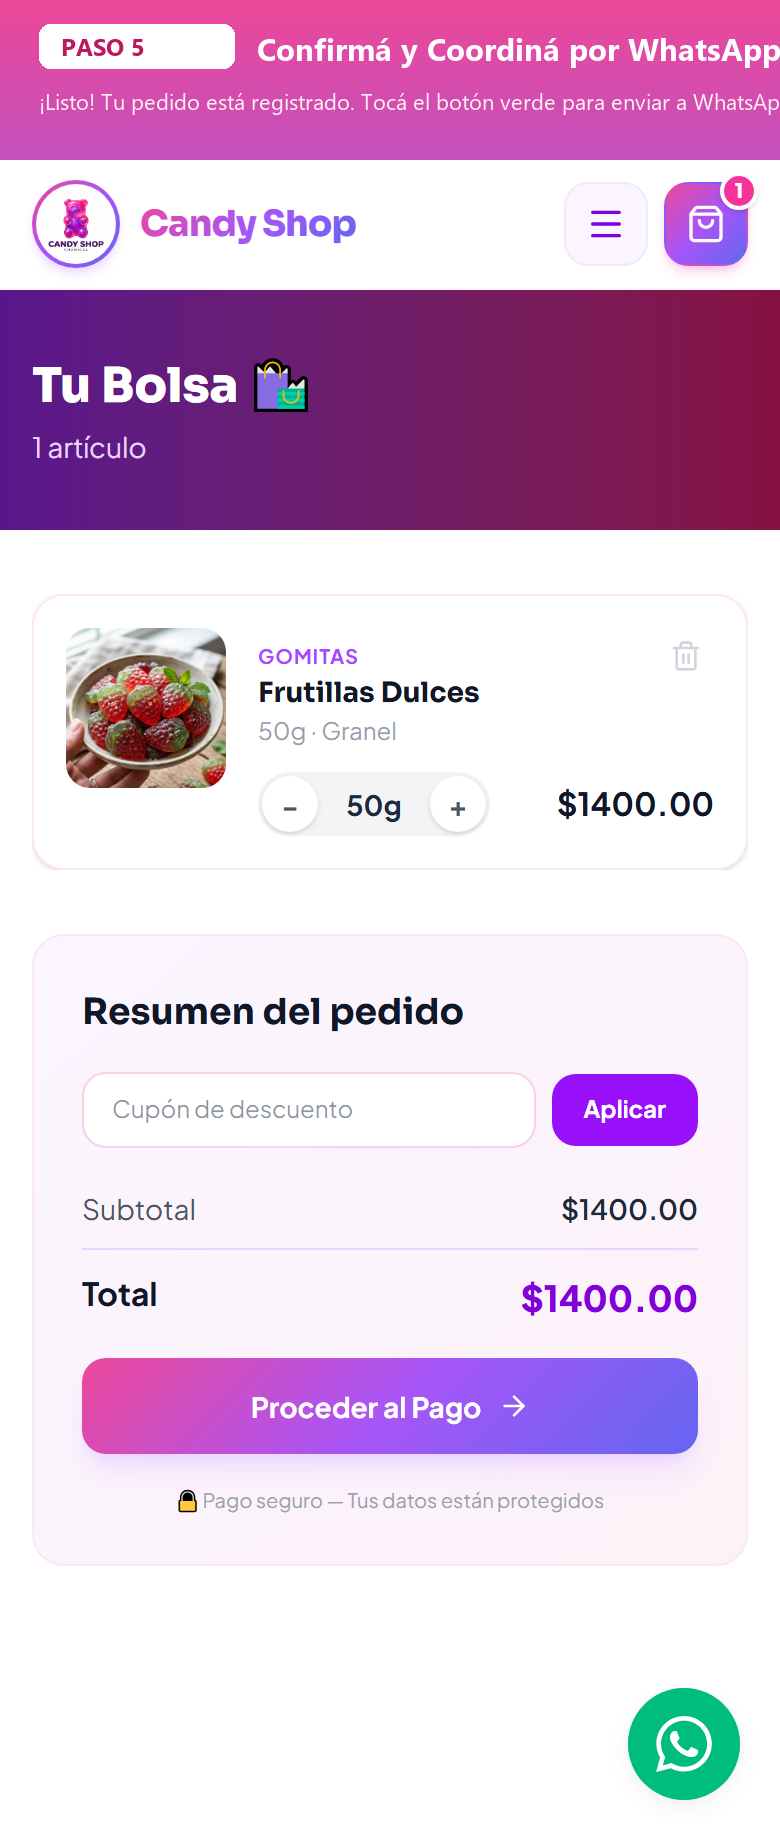
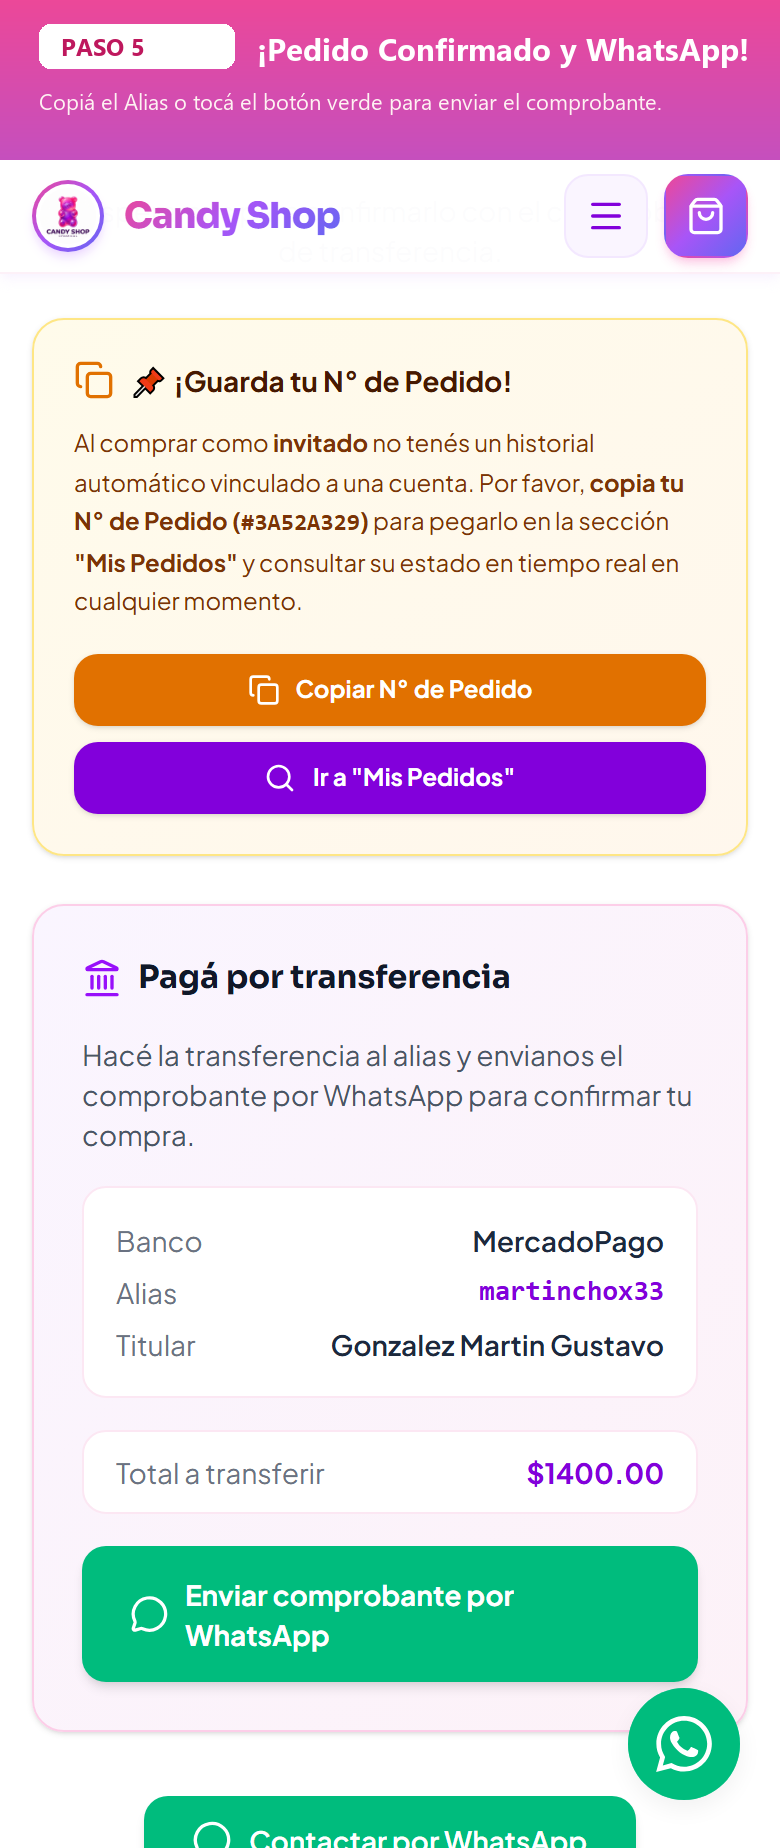
fix(tutorial): corregir y perfeccionar capturas y contenido de los pasos 4 y 5 en tutorial celular

diff --git a/scripts/generate_mobile_tutorial.py b/scripts/generate_mobile_tutorial.py
@@ -33,14 +33,10 @@ def add_banner_annotation(
     img = Image.open(image_path).convert("RGBA")
     w, h = img.size
 
-    # Dimensiones del banner explicativo superior
     banner_height = int(150 * (w / 780))
     banner_height = max(160, min(banner_height, 220))
 
-    # Crear nueva imagen con espacio para el banner
     canvas = Image.new("RGBA", (w, h + banner_height), (248, 250, 252, 255))
-    
-    # Dibujar el banner con degradado candy (Rosa fucsia a Violeta púrpura)
     draw = ImageDraw.Draw(canvas)
     
     for y in range(banner_height):
@@ -50,7 +46,6 @@ def add_banner_annotation(
         b = int(153 * (1 - ratio * 0.4) + 246 * (ratio * 0.4))
         draw.line([(0, y), (w, y)], fill=(r, g, b, 255))
 
-    # Cargar fuentes
     try:
         font_badge = ImageFont.truetype("C:/Windows/Fonts/segoeuib.ttf", int(w * 0.032))
         font_title = ImageFont.truetype("C:/Windows/Fonts/segoeuib.ttf", int(w * 0.040))
@@ -60,7 +55,6 @@ def add_banner_annotation(
         font_title = ImageFont.load_default()
         font_desc = ImageFont.load_default()
 
-    # Pastilla de Paso (Badge blanco)
     badge_text = f" PASO {step_number} "
     badge_x = int(w * 0.05)
     badge_y = int(banner_height * 0.15)
@@ -72,20 +66,16 @@ def add_banner_annotation(
     )
     draw.text((badge_x + int(w * 0.02), badge_y + int(banner_height * 0.04)), badge_text, fill=(190, 24, 93, 255), font=font_badge)
 
-    # Título principal
     title_x = badge_x + int(w * 0.28)
     title_y = badge_y + int(banner_height * 0.02)
     draw.text((title_x, title_y), title, fill=(255, 255, 255, 255), font=font_title)
 
-    # Descripción / Instrucción
     desc_x = int(w * 0.05)
     desc_y = int(banner_height * 0.54)
     draw.text((desc_x, desc_y), instruction, fill=(254, 242, 242, 255), font=font_desc)
 
-    # Pegar captura del celular debajo del banner
     canvas.paste(img, (0, banner_height), img)
 
-    # Si hay recuadro de resaltado (highlight)
     if highlight_box:
         x1, y1, x2, y2 = highlight_box
         y1_adj = y1 + banner_height
@@ -97,7 +87,6 @@ def add_banner_annotation(
                 outline=(236, 72, 153, 255)
             )
 
-    # Guardar imagen final optimizada
     canvas.convert("RGB").save(output_path, "PNG", optimize=True)
     print(f" -> Editada y guardada: {output_path.name}")
 
@@ -107,7 +96,6 @@ async def capture_mobile_flow():
         is_headless = os.getenv("HEADLESS", "true").lower() != "false"
         browser = await p.chromium.launch(headless=is_headless, slow_mo=350)
         
-        # Emular Celular moderno (iPhone 14 / Pixel 7: 390x844 con device_scale_factor=2 para ultra nitidez)
         context = await browser.new_context(
             viewport={"width": 390, "height": 844},
             device_scale_factor=2,
@@ -121,7 +109,7 @@ async def capture_mobile_flow():
         print(f"[*] Navegando en vista celular a: {TARGET_URL}")
 
         # -------------------------------------------------------------
-        # PASO 1: Ingreso a la tienda y vista del catálogo en celular
+        # PASO 1: Ingreso a la tienda y catálogo
         # -------------------------------------------------------------
         try:
             await page.goto(f"{TARGET_URL}#catalogo", wait_until="networkidle", timeout=30000)
@@ -175,7 +163,7 @@ async def capture_mobile_flow():
             instruction="Seleccioná los gramos o sabores y tocá 'Añadir a la bolsa'."
         )
 
-        # Añadir al carrito usando el botón #addToCartDetail
+        # Añadir al carrito
         add_btn = page.locator("#addToCartDetail").first
         if await add_btn.count() > 0:
             await add_btn.click()
@@ -202,30 +190,45 @@ async def capture_mobile_flow():
         )
 
         # -------------------------------------------------------------
-        # PASO 4: Formulario de Checkout / Envío y Forma de Pago
+        # PASO 4: Formulario de Envío y Forma de Pago (Paso 'shipping')
         # -------------------------------------------------------------
         checkout_drawer_btn = page.locator("#drawer-checkout-btn").first
         if await checkout_drawer_btn.count() > 0:
             await checkout_drawer_btn.click()
-            await page.wait_for_timeout(2000)
+            await page.wait_for_timeout(1500)
 
-        # Llenar datos de prueba para que se vea completo y claro en la captura
-        name_input = page.locator("input[placeholder*='Nombre'], #buyer-name, input[name='name']").first
+        # En CartScreen, hacer clic en 'Proceder al Pago' para abrir el formulario
+        proceder_btn = page.locator("button:has-text('Proceder al Pago')").first
+        if await proceder_btn.count() > 0:
+            await proceder_btn.click()
+            await page.wait_for_timeout(1500)
+
+        # Llenar datos del cliente
+        name_input = page.locator("input[placeholder*='Tu nombre y apellido']").first
         if await name_input.count() > 0:
             try:
                 await name_input.fill("Camila Gómez")
             except Exception:
                 pass
 
-        phone_input = page.locator("input[placeholder*='Celular'], input[placeholder*='WhatsApp'], #buyer-phone, input[name='phone']").first
+        phone_input = page.locator("input[placeholder*='+54 9'], input[placeholder*='WhatsApp']").first
         if await phone_input.count() > 0:
             try:
-                await phone_input.fill("3826 123456")
+                await phone_input.fill("+54 9 3826 445566")
             except Exception:
                 pass
 
-        # Scroll hacia la sección de método de pago
-        await page.evaluate("window.scrollBy(0, 340)")
+        # Seleccionar método de pago Transferencia
+        transfer_opt = page.locator("label:has-text('Transferencia')").first
+        if await transfer_opt.count() > 0:
+            try:
+                await transfer_opt.click()
+                await page.wait_for_timeout(500)
+            except Exception:
+                pass
+
+        # Posicionar scroll para ver datos, métodos de pago y botón confirmar
+        await page.evaluate("window.scrollTo(0, 440)")
         await page.wait_for_timeout(800)
 
         raw4 = RAW_DIR / "04_checkout_raw.png"
@@ -236,21 +239,22 @@ async def capture_mobile_flow():
             raw4,
             OUTPUT_DIR / "04_paso4_datos_y_pago.png",
             step_number="4",
-            title="Datos de Envío y Pago",
-            instruction="Ingresá tu nombre, celular y seleccioná Efectivo o Transferencia."
+            title="Datos de Envío y Forma de Pago",
+            instruction="Ingresá tus datos de contacto y elegí Efectivo o Transferencia."
         )
 
         # -------------------------------------------------------------
-        # PASO 5: Confirmación de Pedido y Resumen
+        # PASO 5: Confirmación de Pedido y Envío por WhatsApp
         # -------------------------------------------------------------
-        # Hacer clic en Confirmar pedido
-        confirm_btn = page.locator("button:has-text('Confirmar pedido'), button:has-text('Confirmar')").first
+        confirm_btn = page.locator("button:has-text('Confirmar pedido')").first
         if await confirm_btn.count() > 0:
+            await confirm_btn.scroll_into_view_if_needed()
+            await page.wait_for_timeout(500)
             await confirm_btn.click()
             await page.wait_for_timeout(2500)
 
-        # Scroll al botón de WhatsApp
-        await page.evaluate("window.scrollTo(0, 0)")
+        # Scroll enfocado en la tarjeta de transferencia bancaria y botón de WhatsApp
+        await page.evaluate("window.scrollTo(0, 480)")
         await page.wait_for_timeout(800)
 
         raw5 = RAW_DIR / "05_confirmacion_raw.png"
@@ -261,14 +265,13 @@ async def capture_mobile_flow():
             raw5,
             OUTPUT_DIR / "05_paso5_confirmacion_whatsapp.png",
             step_number="5",
-            title="Confirmá y Coordiná por WhatsApp",
-            instruction="¡Listo! Tu pedido está registrado. Tocá el botón verde para enviar a WhatsApp."
+            title="¡Pedido Confirmado y WhatsApp!",
+            instruction="Copiá el Alias o tocá el botón verde para enviar el comprobante."
         )
 
         await browser.close()
         print("[OK] Flujo móvil completado y todas las imágenes editadas con éxito.")
 
-        # Generar Markdown tutorial
         generate_mobile_markdown_tutorial()
 
 
@@ -309,17 +312,19 @@ Tocá el **botón flotante del carrito** en la esquina inferior derecha o el íc
 ### 📝 Paso 4: Completá tus datos de entrega y medio de pago
 En la pantalla de compra:
 1. Seleccioná si querés **Retiro en el local** o **Envío a domicilio**.
-2. Ingresá tu **Nombre** y tu número de **WhatsApp / Celular**.
+2. Ingresá tu **Nombre y Apellido** y tu número de **WhatsApp / Celular**.
 3. Elegí tu medio de pago: **Efectivo** al recibir o **Transferencia bancaria** (con alias directo).
+4. Tocá en **"Confirmar pedido"**.
 
 ![Paso 4: Datos de Envío y Pago](docs/tutorial-mobile/04_paso4_datos_y_pago.png)
 
 ---
 
-### 📲 Paso 5: Confirmá tu pedido y envialo por WhatsApp
-Presioná **"Confirmar Pedido"**:
-- Tu pedido quedará registrado inmediatamente en nuestro sistema.
-- Se abrirá WhatsApp con el mensaje ya armado con todos los detalles para que nos llegue directamente y coordinemos la entrega en minutos.
+### 📲 Paso 5: ¡Pedido Confirmado y Envío por WhatsApp!
+¡Listo! Tu pedido quedó registrado:
+- Vas a ver tu **Número de Pedido** oficial (ej: `#3A89F12B`).
+- Si pagás por transferencia, tenés a mano el **Alias** y datos de la cuenta.
+- Presioná el botón **"Enviar comprobante por WhatsApp 💬"** para mandarnos el comprobante y coordinar la entrega en minutos.
 
 ![Paso 5: Confirmación y Envío](docs/tutorial-mobile/05_paso5_confirmacion_whatsapp.png)
 

diff --git a/TUTORIAL_COMPRA_CELULAR.md b/TUTORIAL_COMPRA_CELULAR.md
@@ -34,17 +34,19 @@ Tocá el **botón flotante del carrito** en la esquina inferior derecha o el íc
 ### 📝 Paso 4: Completá tus datos de entrega y medio de pago
 En la pantalla de compra:
 1. Seleccioná si querés **Retiro en el local** o **Envío a domicilio**.
-2. Ingresá tu **Nombre** y tu número de **WhatsApp / Celular**.
+2. Ingresá tu **Nombre y Apellido** y tu número de **WhatsApp / Celular**.
 3. Elegí tu medio de pago: **Efectivo** al recibir o **Transferencia bancaria** (con alias directo).
+4. Tocá en **"Confirmar pedido"**.
 
 ![Paso 4: Datos de Envío y Pago](docs/tutorial-mobile/04_paso4_datos_y_pago.png)
 
 ---
 
-### 📲 Paso 5: Confirmá tu pedido y envialo por WhatsApp
-Presioná **"Confirmar Pedido"**:
-- Tu pedido quedará registrado inmediatamente en nuestro sistema.
-- Se abrirá WhatsApp con el mensaje ya armado con todos los detalles para que nos llegue directamente y coordinemos la entrega en minutos.
+### 📲 Paso 5: ¡Pedido Confirmado y Envío por WhatsApp!
+¡Listo! Tu pedido quedó registrado:
+- Vas a ver tu **Número de Pedido** oficial (ej: `#3A89F12B`).
+- Si pagás por transferencia, tenés a mano el **Alias** y datos de la cuenta.
+- Presioná el botón **"Enviar comprobante por WhatsApp 💬"** para mandarnos el comprobante y coordinar la entrega en minutos.
 
 ![Paso 5: Confirmación y Envío](docs/tutorial-mobile/05_paso5_confirmacion_whatsapp.png)
 
